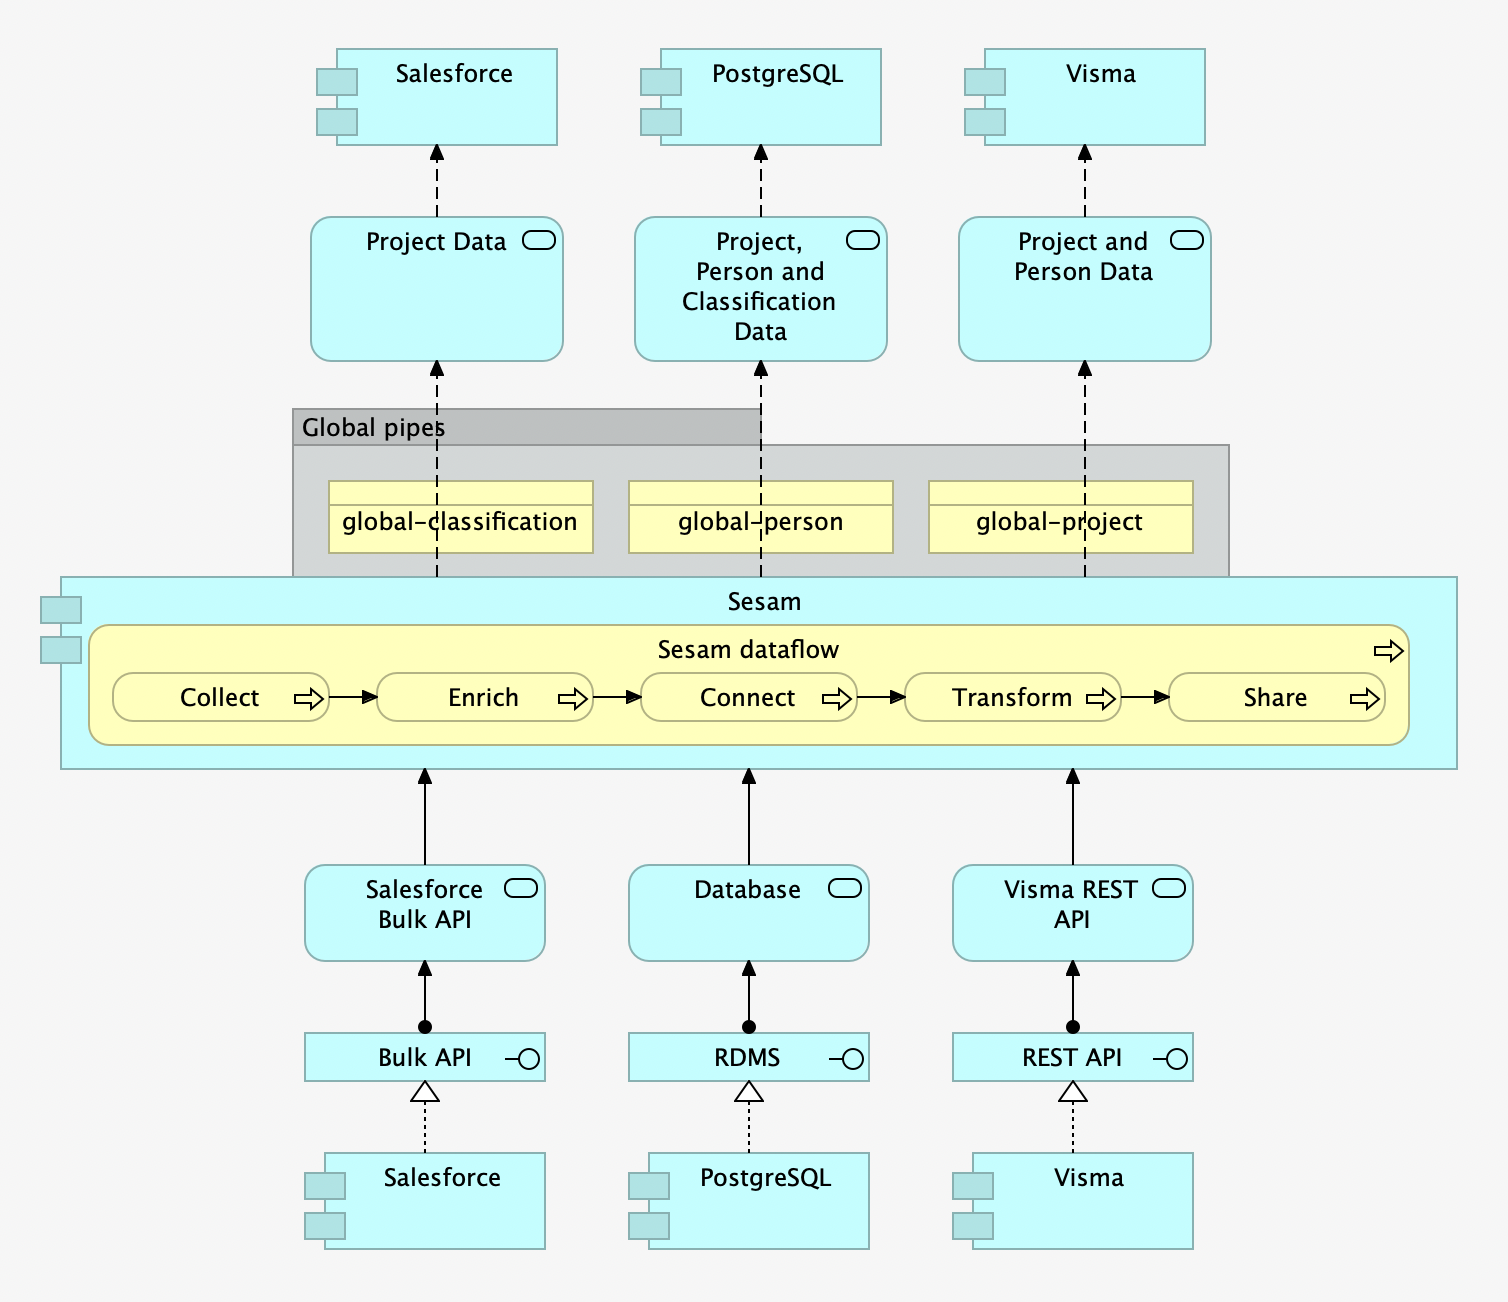
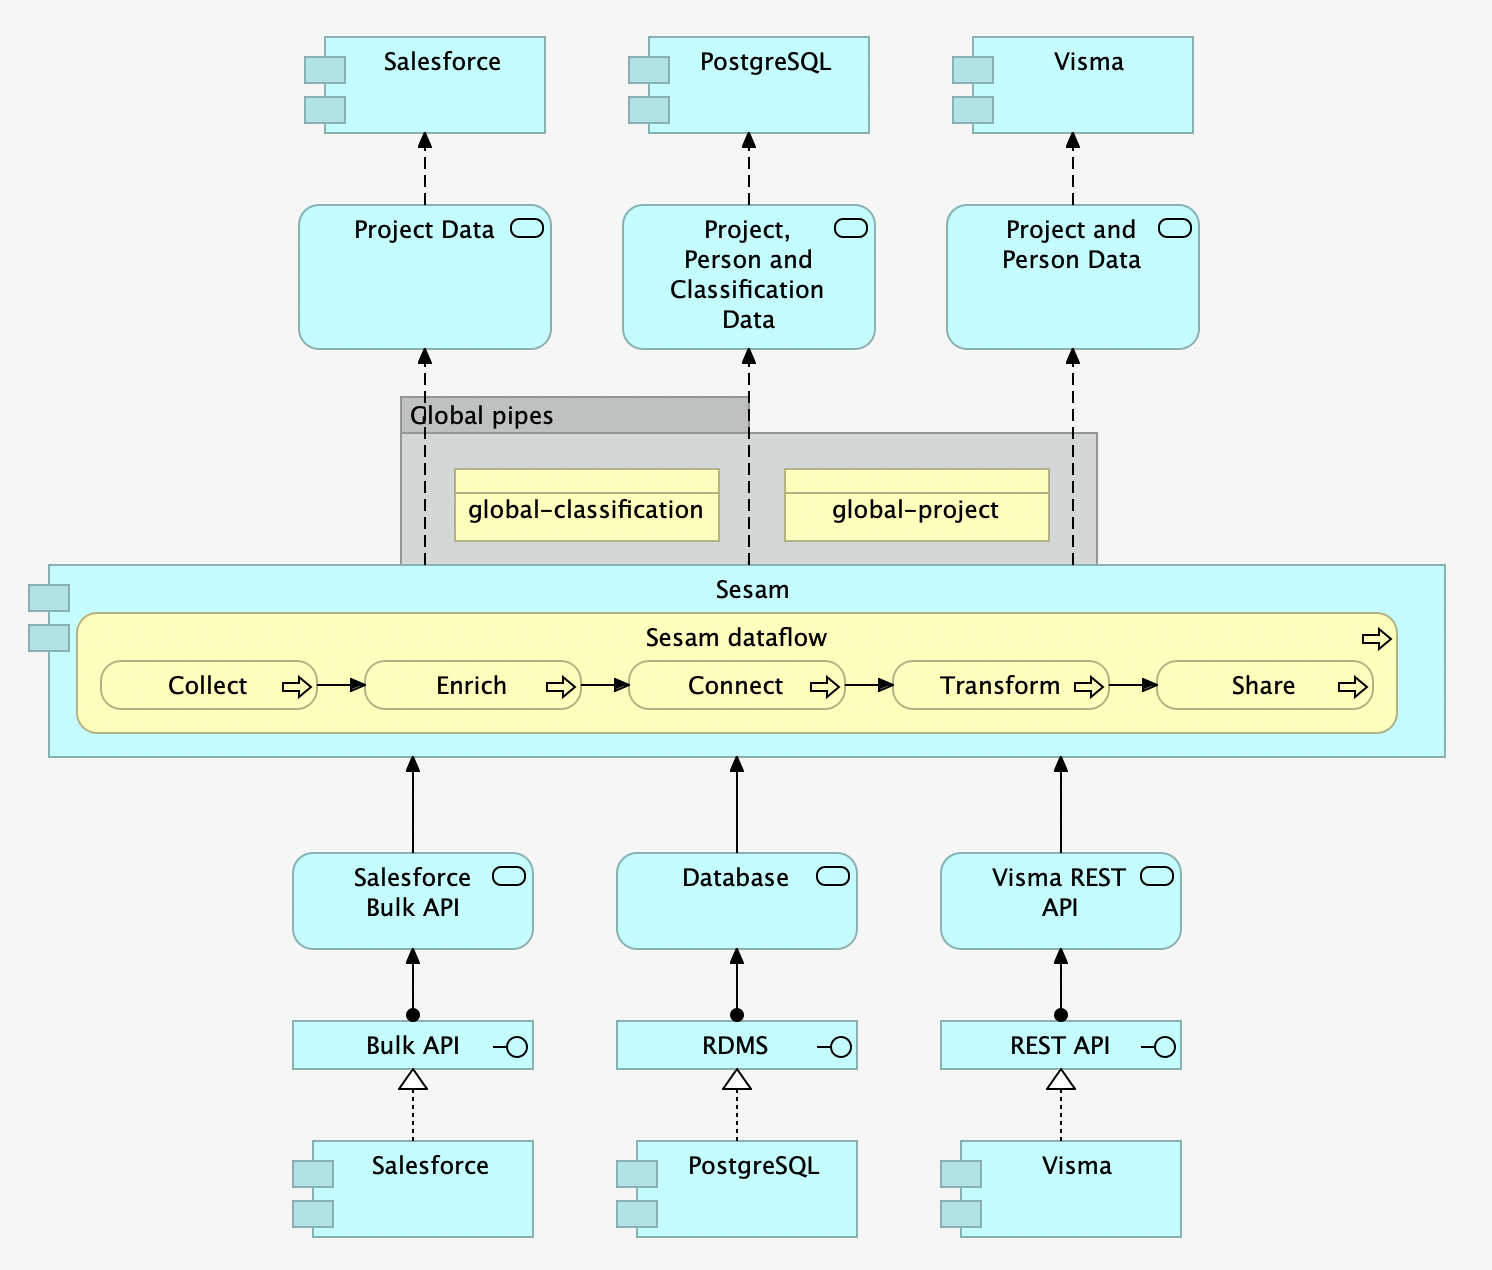
adding picture and finishing section

diff --git a/training/040_projects_and_infrastructure/030_Novice.rst b/training/040_projects_and_infrastructure/030_Novice.rst
@@ -118,14 +118,14 @@ Know your systems
 
   Know your systems...
 
-  - ...
-  - ...
+  - especially when integrating them with one another
+  - as this will minimize the effort needed to create a robust architectural solution
 
 The last aspect we will consider in this section is the fact that you should know your systems when working on a Sesam project. This may sound somewhat simple, albeit often times the complexity of systems, especially when integrating them with one another, is something that should not be easily overlooked.
 
 What is interesting about systems is that they usually vary in format, will have specific query possibilities, authentification methods and should be implemented in Sesam with respect to a desired solution architecture.
 
-A solution architecture is an architectural description of a desired solution. Such a description will vary in complexity, in terms of what it conveys to a receiver, albeit it is extremely important that is it transparent in its proposed architecural solution. As an example, imagine drafting an architectural solution for the following line of business systems:
+A solution architecture is an architectural description of a desired solution. Such a description will vary in complexity, in terms of what it conveys to a receiver, albeit it is extremely important that it is transparent and adequately detailed in its proposed architecural solution to satisfy stakeholders. As an example, imagine drafting an architectural solution for the following line of business systems:
 
 - Salesforce - project records
 - PostgreSQL - historic data for reporting
@@ -139,14 +139,17 @@ Which is represented in an architectural solution below, using the `Archimate mo
 
    Solution Architecture
 
-
-
-
-
+As can be seen from the above solution Sesam pulls data from said three systems, undertakes the process called "Sesam dataflow" and then shares data so that it can be pushed to said three systems. In the architectural solution you can see how the different systems are described in detail with regards to their interface and service. As an example the interface of Salesforce is "Bulk API" and its service is "Salesforce Bulk API". In the solution it is recommended to create two global pipes namely "global-project" and "global-classification". This is important to consider, in that it hints Salesforce and Visma data can be merged into "global-project" as they probably contain contextual information about the same thing, a project. With regards to the systems implemented in this solution, it is important to acknowledge that the Salesforce system has a bulk API whilst the Visma is a REST API. As Sesam works with streams of data, Sesam prefers to pull data from a system as streams of changes, albeit bulk pulls also work just fine. You should however consider data volumes as reading large amount of data in bulks can be a time-consuming endeavour and might limit your suggested solution.
 
 .. seealso::
 
-  TODO
+  :ref:`developer-guide` > :ref:`json_pull_protocol`
+
+  :ref:`developer-guide` > :ref:`json_push_protocol`
+
+  :ref:`learn-sesam` > :ref:`systems` > :ref:`systems-novice-2-2` > :ref:`authentication-methods-2-2`
+
+  :ref:`learn-sesam` > :ref:`microservices` > :ref:`microservices-novice-5-2` > :ref:`authentication-with-microservices-5-2`
 
 .. _tasks-for-projects-infrastructure-novice-4-2:
 
